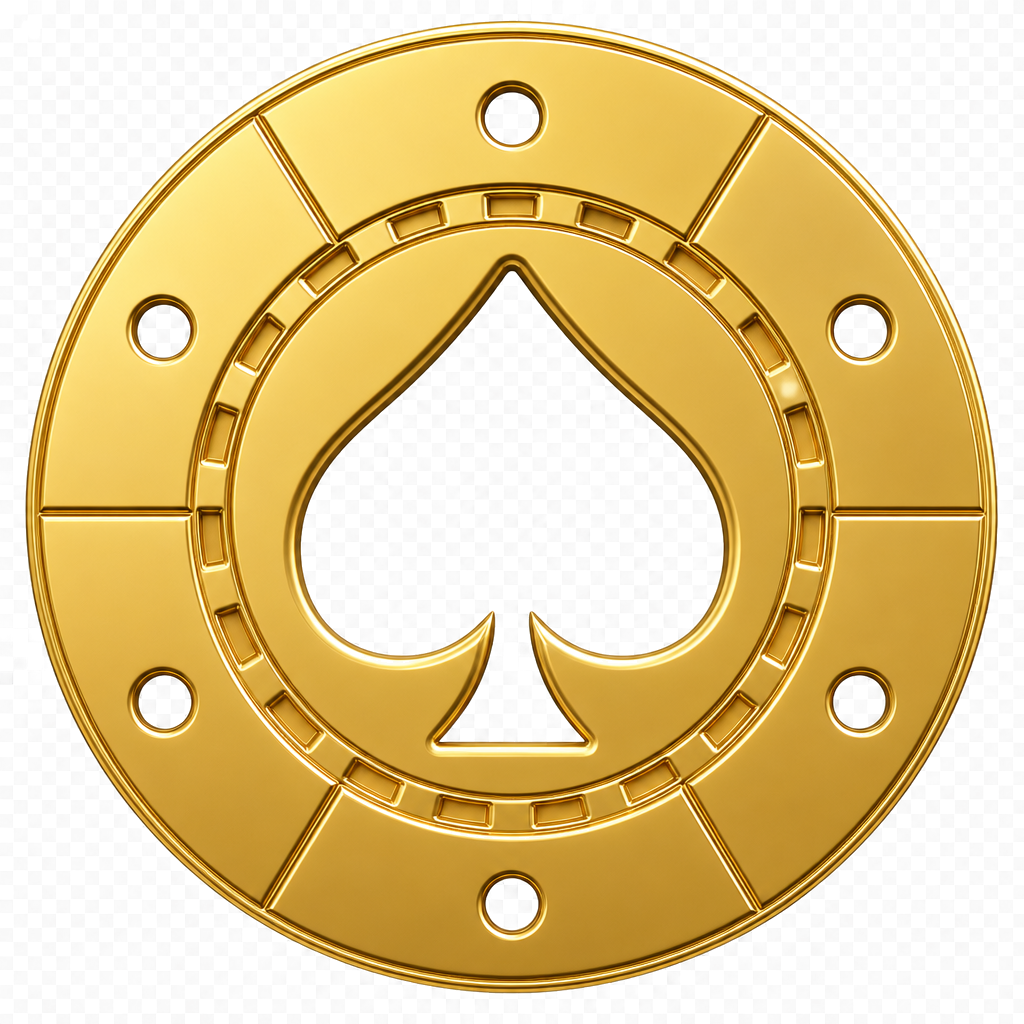
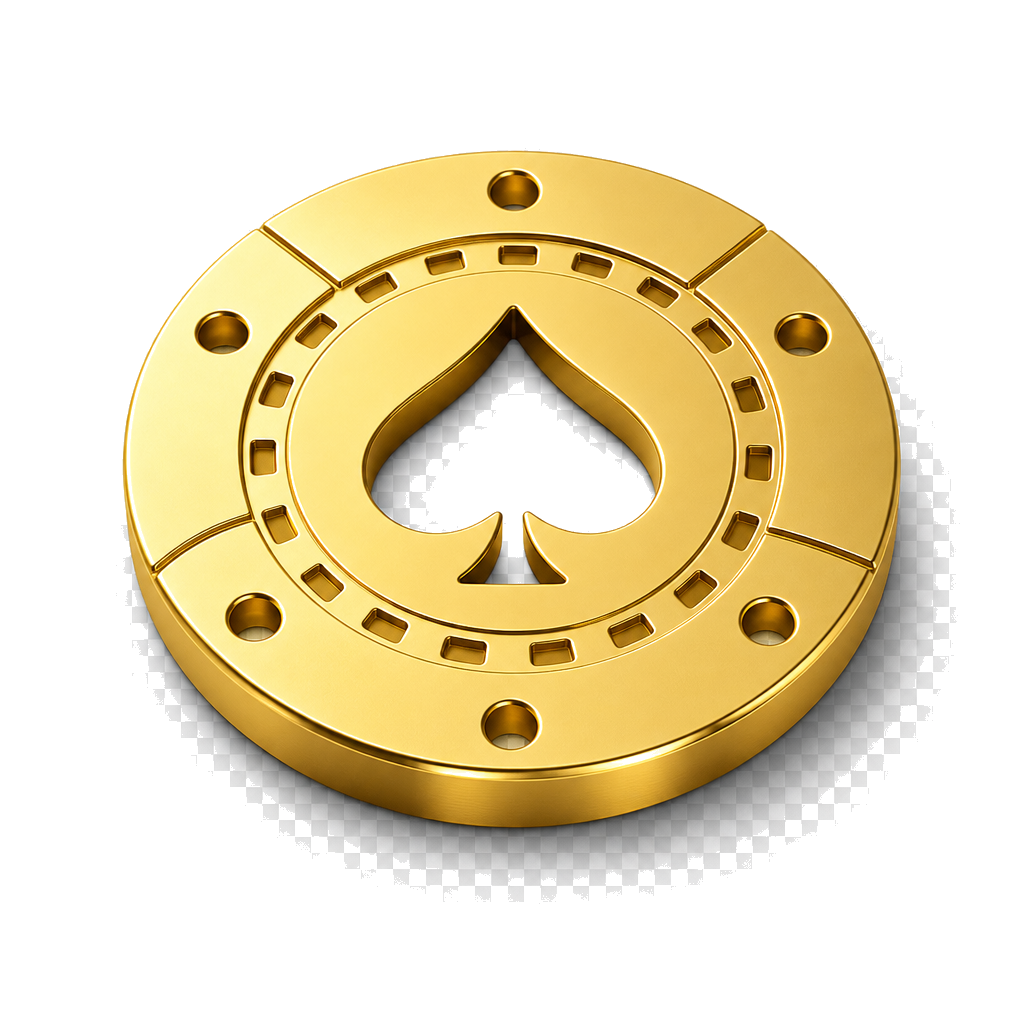
Fix chip transparency/3D and refresh character hands
Replace flat PNG chips with SVG gold-spade tokens that have visible
thickness and no white square, and update the splash hero toward
five-finger hands on the main character.

diff --git a/my-expo-app/components/splash/FallingChips.tsx b/my-expo-app/components/splash/FallingChips.tsx
@@ -1,5 +1,5 @@
 import { useEffect, useMemo } from 'react';
-import { Dimensions, Image, StyleSheet, View } from 'react-native';
+import { Dimensions, StyleSheet, View } from 'react-native';
 import Animated, {
   Easing,
   interpolate,
@@ -9,10 +9,9 @@ import Animated, {
   withRepeat,
   withTiming,
 } from 'react-native-reanimated';
+import Svg, { Circle, Defs, Ellipse, G, LinearGradient, Path, Stop } from 'react-native-svg';
 
 const { width: SCREEN_W, height: SCREEN_H } = Dimensions.get('window');
-
-const CHIP_IMAGE = require('../../assets/brand/chip-gold-spade.png');
 
 type ChipSpec = {
   id: number;
@@ -24,55 +23,146 @@ type ChipSpec = {
   spinDir: 1 | -1;
 };
 
+/** Gold spade chip inspired by the reference — true circle + visible thickness. */
+function GoldSpadeChip({ size }: { size: number }) {
+  return (
+    <Svg width={size} height={size * 1.18} viewBox="0 0 64 76">
+      <Defs>
+        <LinearGradient id="side" x1="0" y1="0" x2="0" y2="1">
+          <Stop offset="0%" stopColor="#D4A017" />
+          <Stop offset="55%" stopColor="#8A6A0A" />
+          <Stop offset="100%" stopColor="#3D2E05" />
+        </LinearGradient>
+        <LinearGradient id="face" x1="0.15" y1="0.1" x2="0.9" y2="1">
+          <Stop offset="0%" stopColor="#FFE9A0" />
+          <Stop offset="40%" stopColor="#F0C84A" />
+          <Stop offset="100%" stopColor="#B8860B" />
+        </LinearGradient>
+        <LinearGradient id="rim" x1="0" y1="0" x2="1" y2="1">
+          <Stop offset="0%" stopColor="#FFF6C8" />
+          <Stop offset="100%" stopColor="#C9A227" />
+        </LinearGradient>
+      </Defs>
+
+      {/* soft contact shadow */}
+      <Ellipse cx="32" cy="70" rx="20" ry="4.5" fill="#000" opacity={0.3} />
+
+      {/* cylinder side wall for 3D */}
+      <Path
+        d="M8 34 L8 44 C8 56 18 62 32 62 C46 62 56 56 56 44 L56 34 Z"
+        fill="url(#side)"
+      />
+      <Ellipse cx="32" cy="44" rx="24" ry="11" fill="#6B5208" />
+
+      {/* round face */}
+      <Circle cx="32" cy="30" r="24" fill="url(#face)" />
+      <Circle cx="32" cy="30" r="24" fill="none" stroke="url(#rim)" strokeWidth="2.8" />
+
+      {/* six segment ticks + holes */}
+      {[0, 60, 120, 180, 240, 300].map((deg) => {
+        const rad = ((deg - 90) * Math.PI) / 180;
+        const x1 = 32 + Math.cos(rad) * 17;
+        const y1 = 30 + Math.sin(rad) * 17;
+        const x2 = 32 + Math.cos(rad) * 22.5;
+        const y2 = 30 + Math.sin(rad) * 22.5;
+        const hx = 32 + Math.cos(rad) * 19.5;
+        const hy = 30 + Math.sin(rad) * 19.5;
+        return (
+          <G key={deg}>
+            <Path d={`M${x1} ${y1} L${x2} ${y2}`} stroke="#8A6A0A" strokeWidth="1.4" />
+            <Circle cx={hx} cy={hy} r="1.7" fill="#5C4508" />
+            <Circle cx={hx} cy={hy} r="1.1" fill="#2A1F04" />
+          </G>
+        );
+      })}
+
+      {/* notch ring */}
+      <Circle
+        cx="32"
+        cy="30"
+        r="13.5"
+        fill="none"
+        stroke="#8A6A0A"
+        strokeWidth="2.2"
+        strokeDasharray="2.2 2.2"
+      />
+
+      {/* spade cutout */}
+      <Path
+        d="M32 18 C32 18 22 27 22 33 C22 37 25 39.5 28.5 39.5 C29.5 39.5 30.5 39.2 31.2 38.7 L30 43 L34 43 L32.8 38.7 C33.5 39.2 34.5 39.5 35.5 39.5 C39 39.5 42 37 42 33 C42 27 32 18 32 18 Z"
+        fill="#3D2E05"
+      />
+      <Path
+        d="M32 20 C32 18 24 27.5 23.5 32.5 C23.2 35.5 25.5 37.8 28.2 37.8 C29.4 37.8 30.4 37.4 31.2 36.8 L30.2 41.2 L33.8 41.2 L32.8 36.8 C33.6 37.4 34.6 37.8 35.8 37.8 C38.5 37.8 40.8 35.5 40.5 32.5 C23.5 27.5 32 20 32 20 Z"
+        fill="#1A1608"
+        opacity={0.9}
+      />
+
+      {/* highlight */}
+      <Path
+        d="M16 20 C24 13 40 12 47 19"
+        stroke="#FFFFFF"
+        strokeWidth="1.8"
+        strokeLinecap="round"
+        opacity={0.45}
+        fill="none"
+      />
+    </Svg>
+  );
+}
+
 function FallingChip({ chip }: { chip: ChipSpec }) {
   const progress = useSharedValue(0);
   const spin = useSharedValue(0);
-  const flip = useSharedValue(0);
+  const tumble = useSharedValue(0);
 
   useEffect(() => {
     progress.value = withDelay(
       chip.delay,
-      withRepeat(
-        withTiming(1, { duration: chip.duration, easing: Easing.linear }),
-        -1,
-        false
-      )
+      withRepeat(withTiming(1, { duration: chip.duration, easing: Easing.linear }), -1, false)
     );
     spin.value = withDelay(
       chip.delay,
       withRepeat(
-        withTiming(360 * chip.spinDir, { duration: chip.duration * 0.85, easing: Easing.linear }),
+        withTiming(360 * chip.spinDir, {
+          duration: chip.duration * 0.8,
+          easing: Easing.linear,
+        }),
         -1,
         false
       )
     );
-    // gentle 3D tumble on the X axis while falling
-    flip.value = withDelay(
+    tumble.value = withDelay(
       chip.delay,
       withRepeat(
-        withTiming(1, { duration: chip.duration * 0.55, easing: Easing.inOut(Easing.sin) }),
+        withTiming(1, {
+          duration: Math.max(900, chip.duration * 0.45),
+          easing: Easing.inOut(Easing.sin),
+        }),
         -1,
         true
       )
     );
-  }, [chip.delay, chip.duration, chip.spinDir, progress, spin, flip]);
+  }, [chip.delay, chip.duration, chip.spinDir, progress, spin, tumble]);
 
   const style = useAnimatedStyle(() => {
-    const travel = SCREEN_H + chip.size * 2.8;
-    const y = -chip.size * 1.4 + progress.value * travel;
-    const xDrift = interpolate(progress.value, [0, 0.5, 1], [0, chip.wobble, -chip.wobble * 0.35]);
-    const opacity = interpolate(progress.value, [0, 0.03, 0.92, 1], [0, 1, 1, 0]);
-    const rotateX = interpolate(flip.value, [0, 1], [-28, 28]);
-    const scaleY = interpolate(flip.value, [0, 0.5, 1], [1, 0.82, 1]);
+    const travel = SCREEN_H + chip.size * 3;
+    const y = -chip.size * 1.5 + progress.value * travel;
+    const xDrift = interpolate(progress.value, [0, 0.5, 1], [0, chip.wobble, -chip.wobble * 0.4]);
+    const opacity = interpolate(progress.value, [0, 0.03, 0.9, 1], [0, 1, 1, 0]);
+    const rotateX = interpolate(tumble.value, [0, 1], [-58, 55]);
+    const rotateY = interpolate(tumble.value, [0, 1], [-22, 18]);
+    const scaleX = interpolate(tumble.value, [0, 0.5, 1], [1, 0.7, 1]);
 
     return {
       transform: [
-        { perspective: 600 },
+        { perspective: 750 },
         { translateY: y },
         { translateX: xDrift },
         { rotate: `${spin.value}deg` },
         { rotateX: `${rotateX}deg` },
-        { scaleY },
+        { rotateY: `${rotateY}deg` },
+        { scaleX },
       ],
       opacity,
     };
@@ -80,9 +170,7 @@ function FallingChip({ chip }: { chip: ChipSpec }) {
 
   return (
     <Animated.View pointerEvents="none" style={[{ position: 'absolute', left: chip.x, top: 0 }, style]}>
-      <View style={styles.shadowWrap}>
-        <Image source={CHIP_IMAGE} style={{ width: chip.size, height: chip.size }} resizeMode="contain" />
-      </View>
+      <GoldSpadeChip size={chip.size} />
     </Animated.View>
   );
 }
@@ -91,12 +179,12 @@ export function FallingChips({ count = 12 }: { count?: number }) {
   const chips = useMemo<ChipSpec[]>(() => {
     return Array.from({ length: count }, (_, id) => ({
       id,
-      x: 6 + ((id * 79) % Math.max(SCREEN_W - 64, 40)),
-      size: 42 + (id % 4) * 6,
+      x: 6 + ((id * 79) % Math.max(SCREEN_W - 70, 40)),
+      size: 44 + (id % 4) * 6,
       delay: (id * 280) % 3600,
       duration: 4300 + (id % 5) * 700,
       wobble: 16 + (id % 5) * 8,
-      spinDir: id % 2 === 0 ? 1 : -1,
+      spinDir: id % 2 === 0 ? (1 as const) : (-1 as const),
     }));
   }, [count]);
 
@@ -114,12 +202,5 @@ const styles = StyleSheet.create({
     ...StyleSheet.absoluteFillObject,
     zIndex: 2,
     overflow: 'visible',
-  },
-  shadowWrap: {
-    shadowColor: '#000',
-    shadowOpacity: 0.45,
-    shadowRadius: 6,
-    shadowOffset: { width: 0, height: 4 },
-    elevation: 5,
   },
 });
